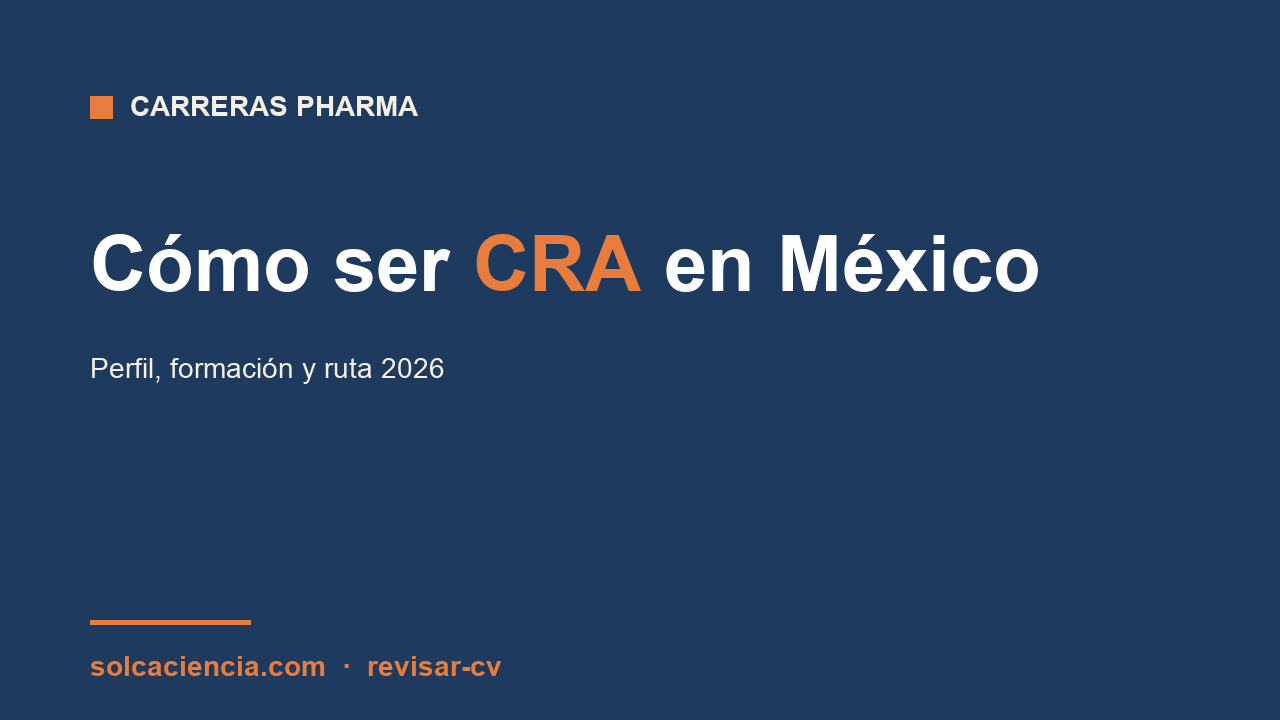
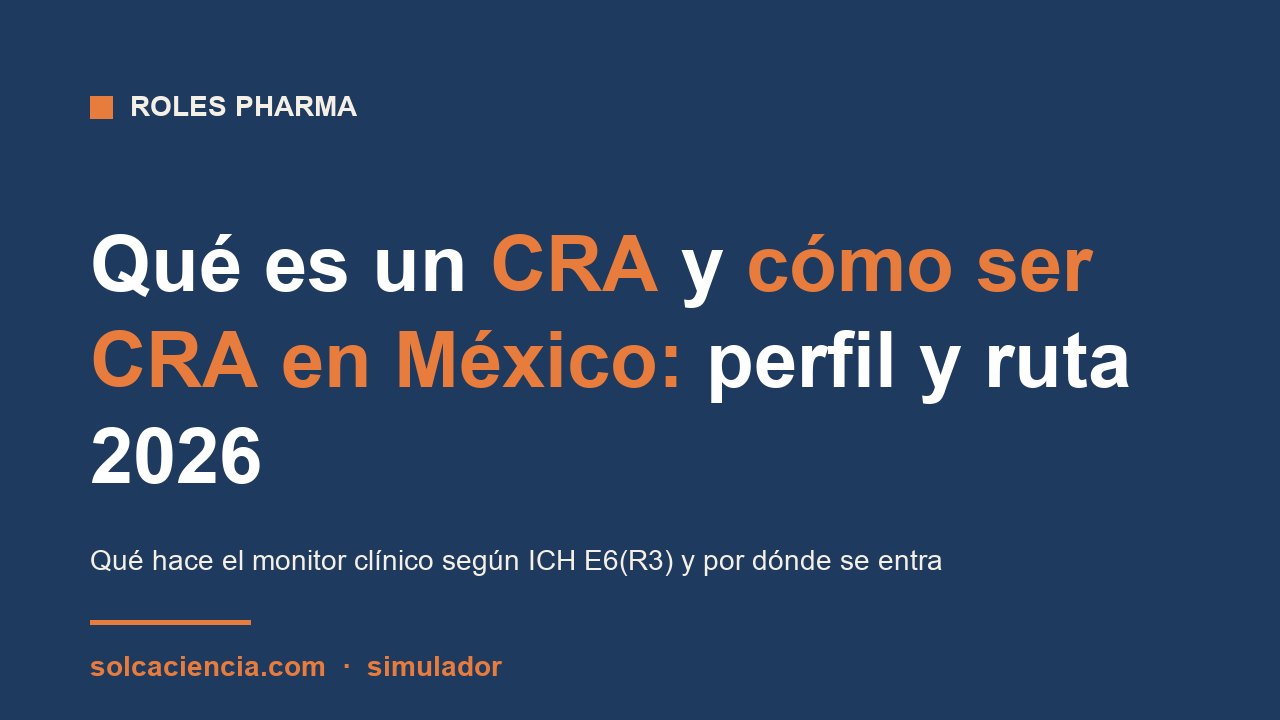
blog: Qué es un CRA y cómo ser CRA en México

diff --git a/src/content/blog/como-ser-cra-en-mexico-perfil-formacion-ruta.md b/src/content/blog/como-ser-cra-en-mexico-perfil-formacion-ruta.md
@@ -1,115 +1,144 @@
 ---
-title: "Cómo ser CRA en México: perfil, formación y ruta 2026"
-description: "Qué piden las CROs y farmacéuticas para Clinical Research Associate en México. Formación, certificaciones, inglés, viajes y ruta de entrada 2026."
+title: "Qué es un CRA y cómo ser CRA en México: perfil y ruta 2026"
+description: "Qué es un CRA en investigación clínica, qué hace según ICH E6(R3), qué marco aplica en México y desde qué puestos se llega al rol."
 pubDate: 2026-07-13
+updatedDate: 2026-10-12
 heroImage: "/blog/como-ser-cra-en-mexico-perfil-formacion-ruta.png"
 category: "carreras-pharma"
-tags: ["CRA", "Clinical Research Associate", "México", "Investigación Clínica", "Industria Farmacéutica", "Monitor Clínico"]
+tags: ["CRA", "Clinical Research Associate", "Investigación Clínica", "México", "ICH GCP", "Entrevistas"]
 series: "roles-pharma"
 seriesIndex: 3
-readingMinutes: 8
+readingMinutes: 7
+cta: "simulador"
 ---
 
-Clinical Research Associate (CRA) es el rol de industria farmacéutica que más contrata entradas junior en LATAM y el que abre la puerta más consistente a candidatos con formación en ciencias de la salud sin experiencia previa en industria. Las CROs multinacionales (IQVIA, Parexel, ICON, PPD, Labcorp) tienen pipeline permanente de CRA I porque el volumen de estudios clínicos que gestionan requiere formación continua de monitores. Esta guía cubre qué piden realmente para CRA en México, la formación aceptada, las certificaciones que abren o cierran la puerta, y la ruta operativa de entrada.
+> **Respuesta corta.** Un CRA (Clinical Research Associate, asociado de investigación clínica) es el monitor de un estudio clínico: verifica, por encargo del patrocinador, que cada centro siga el protocolo y que los datos coincidan con el expediente del paciente. Para serlo en México necesitas formación en ciencias de la salud, entrenamiento en Buenas Prácticas Clínicas y experiencia con estudios.
 
-## Qué hace un CRA en México
+Esta guía es para quien estudió QFB (Químico Farmacéutico Biólogo), medicina, biología, enfermería o una carrera afín y ve vacantes de CRA sin saber bien qué hace el puesto. Aquí está qué es el rol, qué dice la norma sobre su trabajo, qué marco aplica en México y por dónde se entra.
 
-El CRA monitorea que los estudios clínicos que la farmacéutica patrocina se ejecuten según protocolo aprobado y regulación aplicable. Su trabajo se estructura en cuatro tipos de visita a sitios clínicos, más el trabajo interno de reporte.
+## Qué es un CRA en investigación clínica
 
-**Site Initiation Visit.** Visita al sitio antes de arrancar el estudio para verificar que la infraestructura, el equipo clínico y la documentación regulatoria están en orden.
+CRA es la sigla en inglés de Clinical Research Associate. En español se le dice monitor clínico. Cuando alguien busca "CRA medicina" o "CRA farmacéutica", busca este puesto.
 
-**Monitoring Visits.** Visitas regulares durante la ejecución del estudio para verificar que la data reportada en el CRF (Case Report Form) o eCRF coincide con la fuente primaria del paciente (Source Data Verification, SDV), que las desviaciones al protocolo se documentan correctamente, y que los eventos adversos se reportan en tiempo.
+Un estudio clínico tiene tres partes. El patrocinador (sponsor), por ejemplo la farmacéutica dueña del medicamento, financia y diseña el estudio. El investigador principal y su equipo lo ejecutan en un hospital o centro de investigación, al que se le llama sitio. El CRA está entre los dos: representa al patrocinador ante el sitio y confirma que lo que pasa en el sitio es lo que el protocolo dice que debe pasar.
 
-**Close-out Visit.** Visita al cierre del estudio para verificar que toda la documentación queda archivada según regulación, que la farmacia del sitio devuelve o destruye producto no usado, y que el investigador principal firma los documentos de cierre.
+El CRA puede trabajar directamente para la farmacéutica o para una CRO (Contract Research Organization, la empresa a la que el patrocinador encarga la operación del estudio). La guía ICH E6(R3) permite esa delegación, pero deja claro en su principio 10.2 que la responsabilidad sobre la calidad y la integridad de los datos sigue siendo del patrocinador. Para elegir entre CRO, big pharma o farma local, el comparativo de [CRO, big pharma o farma local](https://solcaciencia.com/blog/cro-vs-big-pharma-vs-farma-local-primer-rol/) explica las diferencias.
 
-**Auditorías internas y del patrocinador.** Preparación y acompañamiento en auditorías, respuesta a hallazgos, plan de acciones correctivas y preventivas (CAPA).
+## Qué hace un CRA según ICH E6(R3)
 
-Entre visitas, el CRA redacta reportes de monitoreo, actualiza sistemas de gestión (CTMS), coordina con el sitio por email y videollamada, y participa en reuniones internas del equipo de estudio.
+ICH E6(R3) es la versión vigente, a octubre de 2026, de la guía de Buenas Prácticas Clínicas del ICH (International Council for Harmonisation, el organismo que armoniza normas de medicamentos entre regiones). En el [texto publicado por la EMA](https://www.ema.europa.eu/en/documents/scientific-guideline/ich-e6-r3-guideline-good-clinical-practice-gcp-step-5_en.pdf) (Agencia Europea de Medicamentos), la sección 3.11.4 define el propósito del monitoreo: proteger los derechos, la seguridad y el bienestar de los participantes y la confiabilidad de los resultados mientras el estudio avanza. La guía lo llama una de las principales actividades de control de calidad.
 
-## Formación pedida en México
+La sección 3.11.4.5 lista lo que el monitoreo incluye a lo largo del estudio. Agrupado en el trabajo real del CRA:
 
-Las CROs multinacionales piden formación en ciencias de la salud con título profesional y cédula.
+**Abrir y cerrar sitios.** Confirmar que el investigador y su equipo tienen la preparación, los recursos y las instalaciones para conducir el estudio. Al cierre, confirmar dónde quedan archivados los documentos esenciales y qué pasa con el medicamento que no se usó (3.11.4.5.2, incisos a y j).
 
-**Formaciones aceptadas más frecuentes en México:**
+**Revisar al paciente en papel.** Verificar que el consentimiento informado se obtuvo antes de que el paciente entrara al estudio, que solo se enrolan participantes elegibles y que los eventos adversos se reportan en los plazos que fija el protocolo.
 
-- QFB (Químico Farmacéutico Biólogo)
-- Médico Cirujano
-- Biología o Biomedicina
-- Enfermería con maestría en investigación clínica
-- Psicología clínica en algunos casos para estudios de salud mental
+**Revisar los datos.** Comparar los datos reportados contra los registros fuente, es decir, el expediente del paciente. La guía pide identificar datos faltantes, inconsistentes o atípicos y desviaciones al protocolo.
 
-Cédula profesional obligatoria en la mayoría de posiciones. Maestría añade peso pero no es requisito para entrada.
+**Controlar el medicamento en investigación.** Confirmar que se almacena en las condiciones del protocolo, que se entrega solo a participantes elegibles y en la dosis indicada, y que cada entrada y salida queda documentada (3.11.4.5.3).
 
-## Certificación ICH-GCP obligatoria
+**Comunicar y reportar.** Ser el contacto del sitio con el patrocinador, avisar al investigador de las desviaciones y errores encontrados, y escribir el reporte de monitoreo con lo revisado, los hallazgos y las acciones para resolverlos (sección 3.11.4.6).
 
-**ICH-GCP (International Council for Harmonisation · Good Clinical Practice)** es la regulación global que rige investigación clínica. Todos los estudios patrocinados por farmacéuticas multinacionales operan bajo ICH-GCP. Un CRA sin certificación ICH-GCP vigente no puede monitorear estudios patrocinados.
+Un punto de R3 que tienes que conocer antes de una entrevista: la guía dice que el monitoreo puede hacerse en el sitio o de forma remota, y que su frecuencia se decide según los riesgos identificados del estudio (sección 3.11.4.1). El post de [ICH E6(R3) explicada para CRAs](https://solcaciencia.com/blog/ich-e6-r3-que-cambio-cra/) desarrolla esos cambios.
 
-La certificación es gratuita y accesible online. Las opciones más reconocidas por CROs son:
+## Qué marco regula los estudios clínicos en México
 
-- **CITI Program**: pago, pero es el estándar de facto para investigación clínica en Estados Unidos y varios países LATAM.
-- **NIH Clinical Research Certification**: gratuita, del National Institutes of Health de Estados Unidos.
-- **Curso ICH-GCP de Global Health Training Centre**: gratuito y bien estructurado.
+En México, el documento de base es la Norma Oficial Mexicana [NOM-012-SSA3-2012](https://sidof.segob.gob.mx/notas/docFuente/5284148), publicada en el Diario Oficial de la Federación el 4 de enero de 2013. Establece los criterios para la ejecución de proyectos de investigación para la salud en seres humanos y aplica a instituciones públicas, sociales y privadas.
 
-Cualquier candidato a CRA I sin experiencia previa que quiera acortar su curva de entrada debería tener la certificación completada antes de mandar la primera aplicación. Aparece explícitamente en el CV, sección de certificaciones.
+Tres puntos de esa norma tocan el día a día del CRA:
 
-## Nivel de inglés real
+- **Autorización previa.** El numeral 5.2 exige autorización de la Secretaría de Salud antes de iniciar los protocolos que usan medicamentos sin evidencia suficiente de eficacia o que buscan nuevas indicaciones. El trámite se presenta ante COFEPRIS (Comisión Federal para la Protección contra Riesgos Sanitarios) como "Solicitud de Autorización de Protocolo de Investigación en Seres Humanos", homoclave COFEPRIS-04-010, según su [guía en la plataforma DIGIPRiS](https://www.gob.mx/cms/uploads/attachment/file/911086/Gu_a_para_la_solicitud_de_Protocolos_2404.pdf).
+- **Comités del sitio.** El numeral 6.3.2.8 pide el dictamen favorable de los Comités de Investigación y de Ética en Investigación de la institución, y el 9.2.9 asigna al Comité de Ética la revisión de la carta de consentimiento informado.
+- **Patrocinador.** El numeral 4.18 define al patrocinador como quien acepta por escrito responsabilidades para participar y financiar la investigación.
 
-Para CRA I en México, el mínimo declarado es B2. La realidad operativa: los reportes de monitoreo se redactan en inglés, la comunicación con el equipo de estudio incluye contactos regionales o globales en inglés, y las auditorías del patrocinador multinacional se ejecutan en inglés. Un B2 real conversacional es el piso.
+Cuando un CRA abre un sitio en México, confirma que estas aprobaciones existen y que la versión vigente del consentimiento es la que firmó cada paciente. Saber nombrar la NOM-012 y los dos comités te permite responder en una entrevista con el marco local, no solo con la guía internacional.
 
-Para CRA II y Senior CRA, C1 es el estándar operativo aunque el posting no siempre lo explicite. La razón: al escalar, aumenta la exposición a estudios regionales LATAM (Argentina, Colombia, Brasil, Chile) donde el idioma común de trabajo interno es inglés.
+## Qué formación necesitas para ser CRA
 
-Un B1 declarado como "avanzado" es la falla más frecuente en aplicaciones CRA. El filtro de entrevista lo detecta en menos de quince minutos y descalifica.
+El trabajo descrito arriba exige leer un protocolo, un expediente clínico, una tabla de eventos adversos y un reporte de laboratorio. Las carreras que preparan para leer ese material son las de ciencias de la salud: QFB, medicina, biología, biomedicina, enfermería. Un posgrado en investigación clínica suma, pero no sustituye la experiencia con estudios.
 
-## Viajes esperados
+La guía ICH E6(R3) pide en su sección 3.4 que el patrocinador use personas calificadas para cada actividad, y nombra a los monitores en esa lista. Esa calificación se demuestra con dos piezas:
 
-**CRA I y CRA II en México.** Viaje frecuente, con la carga variando según la CRO y según si el estudio es nacional o regional. Sitios clínicos concentrados en CDMX, Guadalajara y Monterrey. Estudios oncológicos frecuentemente concentrados en centros específicos (Instituto Nacional de Cancerología, Instituto de Enfermedades Oncohematológicas). Estudios cardiovascular más distribuidos.
+**Entrenamiento en Buenas Prácticas Clínicas (GCP, Good Clinical Practice).** Es lo que puedes completar hoy, sin experiencia. El [curso GCP del NIDA Clinical Trials Network](https://gcp.nidatraining.org/about), la red de ensayos clínicos del National Institute on Drug Abuse de Estados Unidos, es de acceso abierto al público, tiene 12 módulos, pide 80% de aciertos en cada cuestionario y entrega un certificado que vence a los tres años.
 
-**Senior CRA y Lead CRA.** Los viajes pueden reducirse si el rol involucra más gestión de equipo que monitoreo directo, pero muchos senior CRA siguen viajando por preferencia del cliente farmacéutico.
+**Experiencia con estudios.** Aquí está el límite. La certificación CCRA (Certified Clinical Research Associate) de ACRP (Association of Clinical Research Professionals) exige horas de trabajo verificable antes del examen. El post de [certificaciones pharma sin experiencia](https://solcaciencia.com/blog/certificaciones-pharma-sin-experiencia-que-piden-en-realidad/) detalla los requisitos de cada una.
 
-**CRA remoto (home-based).** El modelo home-based es dominante en LATAM. La CRO tiene oficina base pero el CRA trabaja desde casa entre visitas. Los viajes siguen siendo el mismo porcentaje; lo que cambia es que no hay oficina diaria de reporte.
+El inglés pesa porque ICH E6(R3) se publica en inglés y en un estudio multinacional el protocolo y el reporte de monitoreo pueden estarlo también. Si una vacante lo pide, revisa cómo leer ese requisito en [vacante en inglés no significa requisito de inglés](https://solcaciencia.com/blog/vacante-en-ingles-no-significa-requisito-ingles/).
 
-**Referencia de calibración.** Un posting de ICON Strategic Solutions para Senior CRA en México City (JR150438, [careers.iconplc.com](https://careers.iconplc.com/job/senior-clinical-research-associate-in-mexico-mexico-city-jid-50315), vacante ya expirada al momento de esta actualización, descripción todavía publicada) declaraba textualmente "Willingness to travel as required (approximately 60%)", con modalidad remote. No es promedio de industria, es una vacante específica; sirve como orden de magnitud cuando la CRO explicita la carga por escrito.
+## Desde qué puestos se llega a CRA
 
-Si viajar con frecuencia es fricción real por razones familiares, geográficas o de salud, el rol de CRA de campo no es realista. Alternativas: In-House CRA (menos frecuente en LATAM pero existe), Clinical Trial Assistant (rol de apoyo desde oficina), Data Management, o Site Coordinator hospitalario.
+Como las certificaciones de CRA piden experiencia con estudios, la entrada se piensa por programas de entrada de las CRO o por el lado del sitio. Cuatro rutas se desprenden del contenido del trabajo:
 
-## Salario referencia México
+**Programa de entrada en una CRO.** El primer nivel se publica con nombres como CRA I o CRA trainee. El post de [trabajar en un CRO en LATAM sin experiencia](https://solcaciencia.com/blog/cro-latam-entry-level-icon-iqvia-que-piden-en-realidad/) revisa las páginas de programas graduate de ICON e IQVIA consultadas en agosto de 2026.
 
-No hay banda salarial pública verificable en Michael Page, Robert Half, Adecco, Hays ni Kelly Services para CRA I en México con desglose 2025-2026 sin descarga con formulario.
+**Coordinación de estudios en el sitio.** El coordinador trabaja del otro lado de la visita de monitoreo: prepara el expediente, el consentimiento y los registros fuente que el CRA revisa. Es experiencia directa con los documentos que el CRA revisa.
 
-Agregadores tipo Prosfy, Glassdoor y Computrabajo dan rangos dispares con muestras pequeñas. Como referencia orientativa: CRA I en CDMX suele iniciar en el segmento medio-junior del mercado profesional, con incrementos significativos al pasar a CRA II y Senior CRA. Las CROs multinacionales suelen pagar arriba de las farmacéuticas nacionales para el mismo nivel de seniority.
+**Asistente de estudios clínicos (CTA, Clinical Trial Assistant).** Apoya al equipo de estudio desde la oficina con documentos esenciales y sistemas. Conoce el estudio sin viajar a sitios.
 
-Contexto de mercado: Argentina anunció USD 8 mil millones de inversión en investigación clínica entre 2026 y 2032 según CAEME en mayo 2026 ([El Cronista](https://www.cronista.com/economia-politica/milei-anuncia-una-de-las-mayores-inversiones-del-sector-farmaceutico-en-argentina-que-se-sabe/)). Ese anuncio consolida a Buenos Aires como hub CRA regional y presiona los salarios CRA regionales al alza. México sigue de cerca la tendencia.
+**Subinvestigador.** Quien estudió medicina y participó como subinvestigador ya conoce el protocolo y el reporte de eventos adversos desde el lado clínico.
 
-## Ruta de entrada más común
+Antes de aplicar a cualquiera de las cuatro, revisa el [salario de CRA junior en LATAM](https://solcaciencia.com/blog/salario-cra-junior-latam-2026/) para saber qué esperar en la oferta, y las [preguntas de entrevista técnica CRA sobre ICH GCP E6(R3)](https://solcaciencia.com/blog/preguntas-entrevista-tecnica-cra-ich-gcp-e6-r3/) para la parte técnica del proceso.
 
-Cuatro puertas concretas.
+## Preguntas frecuentes sobre ser CRA en México
 
-**Puerta uno · Programas de entrada CRA I en CROs multinacionales**. IQVIA, Parexel, ICON, PPD/Thermo Fisher y Labcorp tienen programas específicos para candidatos sin experiencia previa. La formación interna dura 6-12 meses con tutoría de CRAs senior. Es la puerta más frecuente en México.
+### ¿Qué significa CRA en medicina?
 
-**Puerta dos · Coordinador de estudios clínicos hospitalarios**. Trabajar 1-2 años como coordinador en un centro clínico con estudios patrocinados (Instituto Nacional de Cancerología, Instituto Nacional de Cardiología, Instituto Nacional de Perinatología) genera experiencia directamente transferible. Muchos CRAs entran a industria via esta ruta.
+CRA significa Clinical Research Associate, asociado de investigación clínica. Es el monitor de un estudio clínico: verifica, por encargo del patrocinador, que el centro siga el protocolo y que los datos reportados coincidan con el expediente del paciente.
 
-**Puerta tres · Investigador junior o subinvestigador**. Perfiles de medicina residente o egresada que participaron como subinvestigadores en estudios clínicos pueden moverse a CRA con salario más alto y estructura más clara.
+### ¿Qué hace un CRA en la industria farmacéutica?
 
-**Puerta cuatro · Farmacovigilancia con transición interna**. Empezar en farmacovigilancia (rol descrito en detalle en artículo separado) y moverse internamente a Clinical Research después de 12-18 meses. La ruta es menos directa pero funciona para perfiles farmacéuticos.
+Abre y cierra sitios de estudio, revisa que el consentimiento informado se haya obtenido antes de enrolar, compara los datos reportados contra los registros fuente, controla el medicamento en investigación y escribe el reporte de monitoreo, según la sección 3.11.4 de ICH E6(R3).
 
-## Cómo saber si tu perfil alcanza para aplicar hoy
+### ¿Qué estudiar para ser CRA en México?
 
-Cinco chequeos.
+Una carrera de ciencias de la salud, como QFB, medicina, biología, biomedicina o enfermería, más entrenamiento en Buenas Prácticas Clínicas. El curso GCP del NIDA Clinical Trials Network es de acceso abierto y se puede completar antes de tener experiencia.
 
-Uno, **título profesional con cédula en ciencia de la salud**. Sin cédula, la aplicación no arranca en CRO multinacional.
+### ¿Se puede ser CRA sin experiencia?
 
-Dos, **certificación ICH-GCP vigente**. Es tramitable en dos a cuatro semanas. Sin ella en el CV, el pipeline de CRA I se cierra.
+Se entra por programas de CRA I o CRA trainee en una CRO, o desde puestos del sitio como coordinador de estudios, asistente de estudios clínicos o subinvestigador. Las certificaciones de CRA, como la CCRA de ACRP, piden horas de experiencia verificable antes del examen.
 
-Tres, **inglés B2 conversacional real**. Prueba: puedes describir un estudio clínico hipotético en inglés durante quince minutos sin trabarte. Si no, entrenar dos meses o postergar.
-
-Cuatro, **disposición real a viajar con frecuencia**. Si es fricción, pivotar a rol adyacente.
-
-Cinco, **perfil meticuloso y comodidad con checklists**. El CRA que no tolera detalle documental repetitivo abandona el rol en el primer año. Autoevaluación honesta previene una decisión de carrera desalineada.
-
-## Resumen operativo
-
-Ser CRA en México requiere título profesional con cédula en ciencia de la salud, certificación ICH-GCP vigente, inglés B2 conversacional real, disposición a viajar con frecuencia, y perfil meticuloso. La ruta de entrada más común es vía programa CRA I en CRO multinacional; la segunda es vía coordinador de estudios clínicos hospitalarios. Cinco chequeos operativos deciden si el perfil alcanza hoy o si necesita preparación adicional. El salario público verificable con desglose 2025-2026 no está disponible sin descarga con formulario, pero el contexto regional pharma se está expandiendo, especialmente con la inversión anunciada por CAEME Argentina en mayo 2026.
+<script type="application/ld+json">
+{
+  "@context": "https://schema.org",
+  "@type": "FAQPage",
+  "mainEntity": [
+    {
+      "@type": "Question",
+      "name": "¿Qué significa CRA en medicina?",
+      "acceptedAnswer": {
+        "@type": "Answer",
+        "text": "CRA significa Clinical Research Associate, asociado de investigación clínica. Es el monitor de un estudio clínico: verifica, por encargo del patrocinador, que el centro siga el protocolo y que los datos reportados coincidan con el expediente del paciente."
+      }
+    },
+    {
+      "@type": "Question",
+      "name": "¿Qué hace un CRA en la industria farmacéutica?",
+      "acceptedAnswer": {
+        "@type": "Answer",
+        "text": "Abre y cierra sitios de estudio, revisa que el consentimiento informado se haya obtenido antes de enrolar, compara los datos reportados contra los registros fuente, controla el medicamento en investigación y escribe el reporte de monitoreo, según la sección 3.11.4 de ICH E6(R3)."
+      }
+    },
+    {
+      "@type": "Question",
+      "name": "¿Qué estudiar para ser CRA en México?",
+      "acceptedAnswer": {
+        "@type": "Answer",
+        "text": "Una carrera de ciencias de la salud, como QFB, medicina, biología, biomedicina o enfermería, más entrenamiento en Buenas Prácticas Clínicas. El curso GCP del NIDA Clinical Trials Network es de acceso abierto y se puede completar antes de tener experiencia."
+      }
+    },
+    {
+      "@type": "Question",
+      "name": "¿Se puede ser CRA sin experiencia?",
+      "acceptedAnswer": {
+        "@type": "Answer",
+        "text": "Se entra por programas de CRA I o CRA trainee en una CRO, o desde puestos del sitio como coordinador de estudios, asistente de estudios clínicos o subinvestigador. Las certificaciones de CRA, como la CCRA de ACRP, piden horas de experiencia verificable antes del examen."
+      }
+    }
+  ]
+}
+</script>
 
 ---
 
-**¿CRA es el rol pharma que se ajusta a tu perfil?** Nuestro Quiz Match son ocho preguntas que en dos minutos te ubican entre las tres rutas que cubrimos: Project Manager, Medical Science Liaison y Clinical Research. [Pruébalo en solcaciencia.com/quiz-rol](https://solcaciencia.com/quiz-rol).
+**Ensaya la primera llamada de CRA antes de la real.** El [Simulador de Entrevistas Solca](https://solcaciencia.com/simulador-entrevistas/?utm_source=blog&utm_medium=post&utm_campaign=como-ser-cra-mexico#planes) toma tu CV y el título de la vacante de CRA a la que apuntas y te hace la llamada inicial con reclutador: 5 preguntas de screening, con reporte PDF a tu email al terminar. La primera sesión es gratis y no pide tarjeta.
